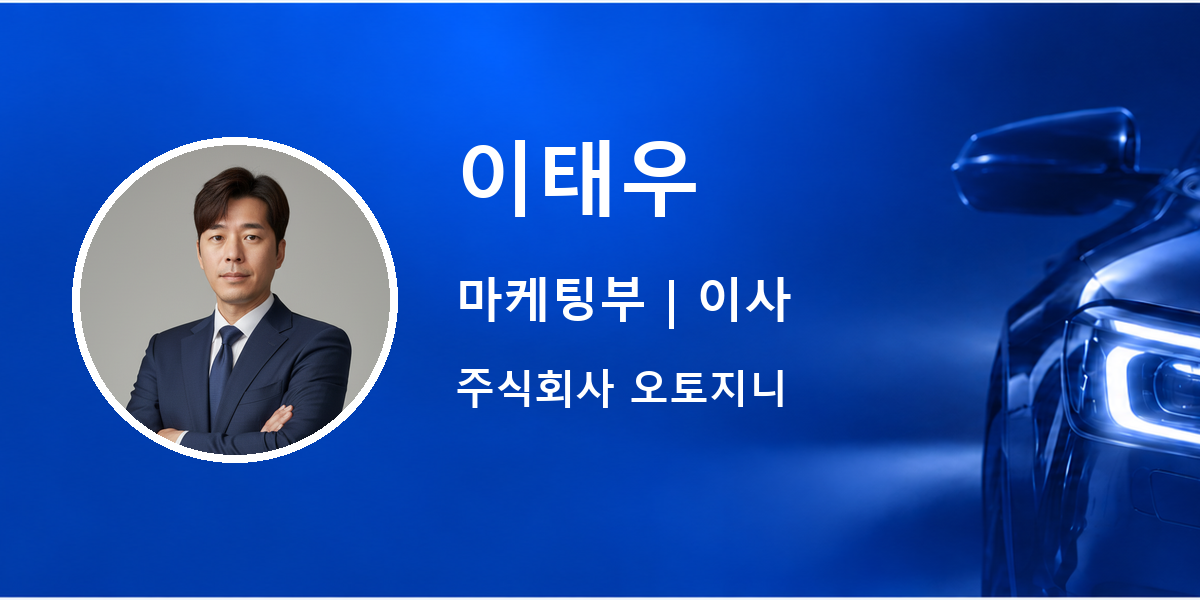
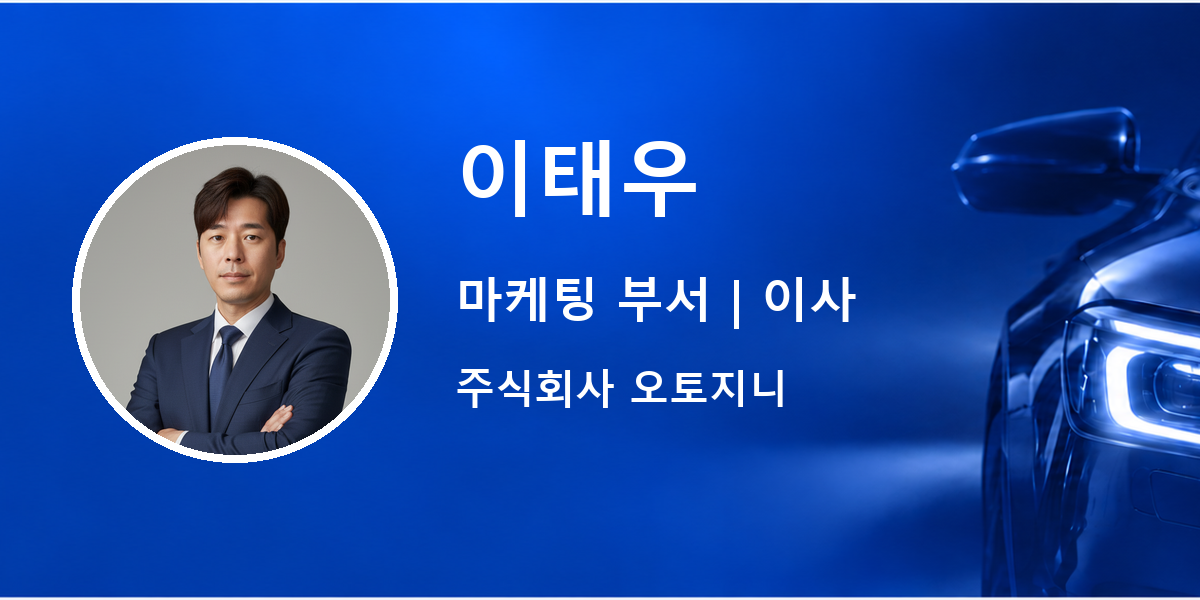
이사님 수정

Changed region(s): [[0.4933, 0.45, 0.7092, 0.54]]

diff --git a/cards/이태우/index.html b/cards/이태우/index.html
@@ -73,7 +73,7 @@
 
         <div class="profile__heading">
           <h1 id="profileName">이태우</h1>
-          <p class="position" id="profilePosition">마케팅부 <span class="divider">|</span> 이사</p>
+          <p class="position" id="profilePosition">마케팅 부서 <span class="divider">|</span> 이사</p>
           <p class="company" id="profileCompany">주식회사 오토지니</p>
         </div>
       </div>
@@ -123,7 +123,7 @@
           </div>
           <div>
             <dt>소속</dt>
-            <dd id="affiliationText">마케팅부</dd>
+            <dd id="affiliationText">마케팅 부서</dd>
           </div>
           <div>
             <dt>전문분야</dt>
